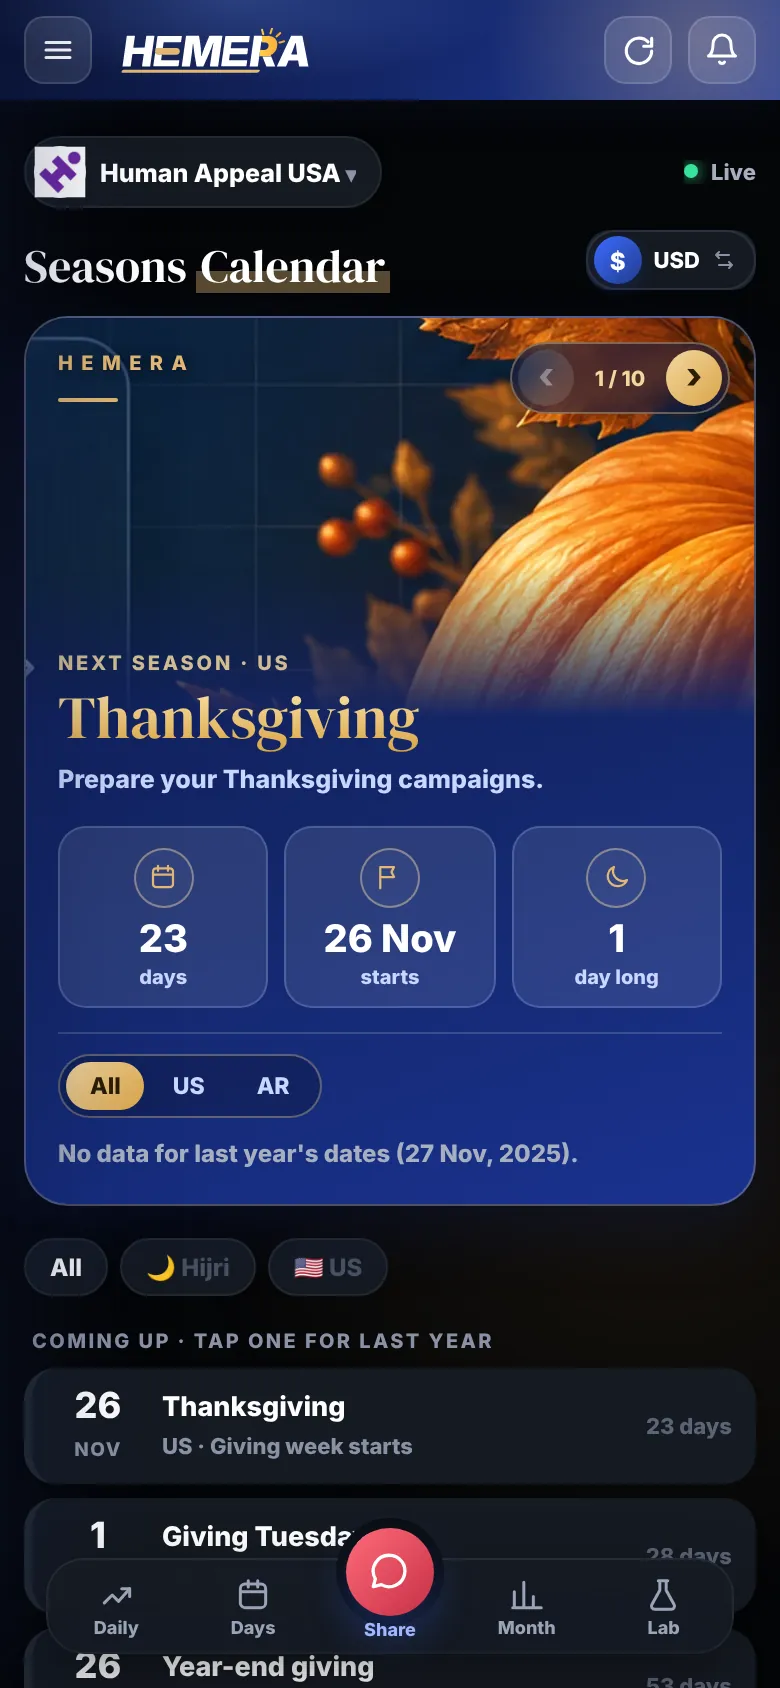
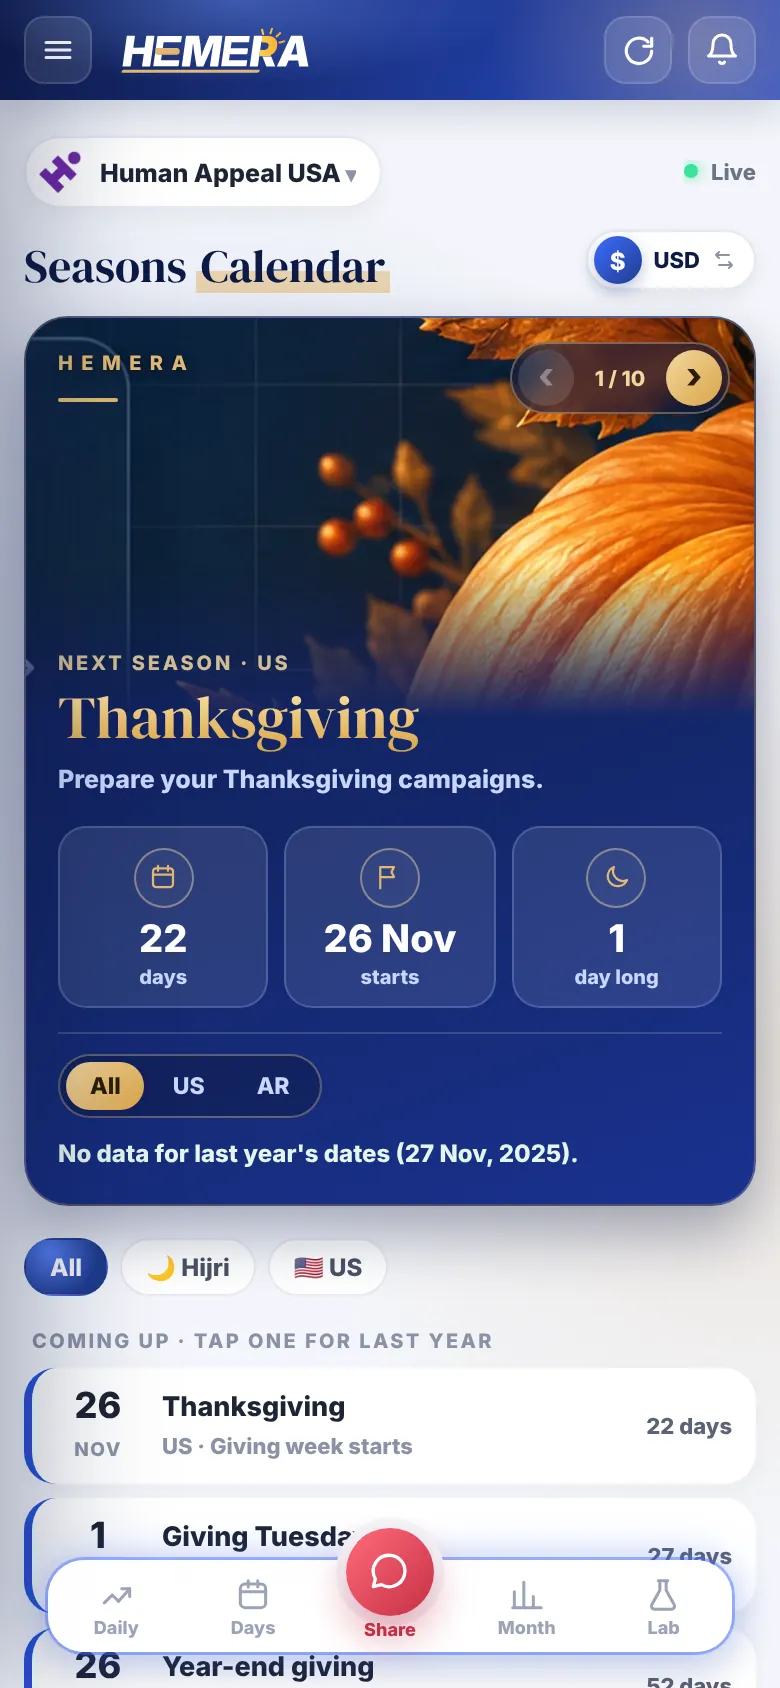
Download page: light screens like the app, Seasons kept in the phones at the top (its own section removed), new campaign type cards in the screens
Claude-Session: https://claude.ai/code/session_01Fhv3nqVBBPmAG7i6xQGF84

diff --git a/get/index.html b/get/index.html
@@ -295,56 +295,12 @@ h2{font-size:36px;letter-spacing:-.03em;line-height:1.08;margin:8px 0 10px;font-
 .fr .bt{position:absolute;width:3px;border-radius:2px;background:linear-gradient(90deg,#5a6aa8,#26326a)}
 .fr .bt.a{left:-3px;top:18%;height:6%}.fr .bt.b{left:-3px;top:27%;height:11%}.fr .bt.c{left:-3px;top:40%;height:11%}.fr .bt.d{right:-3px;top:30%;height:16%}
 .rp.front .fr{box-shadow:inset 0 0 0 1.5px rgba(255,255,255,.22),0 0 0 1px rgba(226,184,116,.18),0 30px 60px rgba(0,0,0,.35)}
-/* v174 seasons section: one phone walks through every season */
-.ssg{display:grid;grid-template-columns:.9fr 1.1fr;gap:48px;align-items:center}
-.ssp-wrap{position:relative;display:flex;justify-content:center;padding:30px 0 10px}
-.ssp-wrap:before{content:"";position:absolute;left:50%;top:48%;width:420px;height:420px;transform:translate(-50%,-50%);border-radius:50%;background:radial-gradient(circle,var(--sg,rgba(226,184,116,.35)),transparent 66%);filter:blur(10px);transition:background 1s ease}
-.ssp{--pw:270px;position:relative;width:var(--pw);aspect-ratio:1/2.164;animation:sspb 7s ease-in-out infinite}
-@keyframes sspb{0%,100%{transform:perspective(1200px) rotateY(-9deg) rotateX(4deg) translateY(0)}50%{transform:perspective(1200px) rotateY(-4deg) rotateX(2deg) translateY(-10px)}}
-.ssp .fr{transform:none;inset:0;position:absolute}
-.ssp .ly{transition:opacity .9s ease,transform 6s ease}
-.ssp .ly img{transform:scale(1.0)}
-.ssp .ly.on img{animation:sspz 4.6s ease-out forwards}
-@keyframes sspz{from{transform:scale(1.035)}to{transform:scale(1)}}
-.ssp-sh{position:absolute;left:50%;bottom:-6px;width:70%;height:34px;transform:translateX(-50%);border-radius:50%;background:radial-gradient(closest-side,rgba(0,0,0,.55),transparent);filter:blur(5px)}
-.ssn{position:absolute;z-index:6;right:calc(50% + 66px);top:12%;width:236px;border-radius:18px;padding:11px 13px;background:rgba(18,30,78,.82);border:1px solid rgba(255,255,255,.16);backdrop-filter:blur(14px);-webkit-backdrop-filter:blur(14px);box-shadow:0 18px 40px rgba(0,0,0,.4);transition:opacity .45s ease,transform .45s ease}
-.ssn.out{opacity:0;transform:translateY(-8px)}
-.ssn .h{display:flex;align-items:center;gap:7px;font-size:11px;color:var(--sub);font-weight:700}
-.ssn .h img{width:18px;height:18px;border-radius:5px;background:#0b1236;padding:2px}
-.ssn .h em{margin-left:auto;font-style:normal;color:var(--mute)}
-.ssn b{display:block;margin-top:6px;font-size:13.5px;line-height:1.25}
-.ssn p{margin:3px 0 0;font-size:12px;line-height:1.4;color:var(--sub);display:-webkit-box;-webkit-line-clamp:2;-webkit-box-orient:vertical;overflow:hidden}
-.ssn .pic{margin-top:8px;border-radius:10px;overflow:hidden;aspect-ratio:2/1;background:#0b1236}
-.ssn .pic img{width:100%;height:100%;object-fit:cover;display:block}
-.ssd{position:absolute;z-index:6;left:calc(50% + 96px);bottom:18%;border-radius:16px;padding:10px 13px;background:linear-gradient(135deg,rgba(226,184,116,.95),#c89434);color:#1c1405;box-shadow:0 16px 34px rgba(0,0,0,.35);text-align:center;transition:opacity .45s ease,transform .45s ease}
-.ssd.out{opacity:0;transform:translateY(8px)}
-.ssd small{display:block;font-size:10px;font-weight:900;letter-spacing:.12em;text-transform:uppercase;opacity:.75}
-.ssd b{display:block;font-size:22px;font-weight:900;line-height:1.1}
-.ssd span{display:block;font-size:11.5px;font-weight:800}
-.sst .kk{display:inline-flex;align-items:center;gap:8px}
-.sst h2 em{font-style:normal;background:linear-gradient(90deg,var(--gold),var(--gold2));-webkit-background-clip:text;background-clip:text;color:transparent}
-.ssl{display:grid;grid-template-columns:1fr 1fr;gap:8px;margin:18px 0 16px}
-.ssl button{position:relative;overflow:hidden;display:flex;align-items:center;gap:10px;text-align:left;font:inherit;color:#fff;border:1px solid var(--line);border-radius:14px;padding:8px 10px;background:rgba(255,255,255,.04);cursor:pointer;transition:background .25s,border-color .25s,transform .15s}
-.ssl button:active{transform:scale(.98)}
-.ssl button i{flex:0 0 34px;width:34px;height:34px;border-radius:10px;background-size:cover;background-position:center;box-shadow:inset 0 0 0 1px rgba(255,255,255,.15)}
-.ssl button b{display:block;font-size:13px;line-height:1.2}
-.ssl button small{display:block;font-size:11px;color:var(--mute);font-weight:700}
-.ssl button.on{border-color:rgba(226,184,116,.6);background:linear-gradient(135deg,rgba(226,184,116,.16),rgba(255,255,255,.03))}
-.ssl button.on small{color:var(--gold)}
-.ssl button em{position:absolute;left:0;bottom:0;height:2px;width:0;background:var(--gold)}
-.ssl button.on em{animation:ltab var(--sd2,4600ms) linear forwards}
-.ssf{display:flex;flex-wrap:wrap;gap:8px}
-.ssf span{display:inline-flex;align-items:center;gap:6px;font-size:12.5px;font-weight:700;color:var(--sub);border:1px solid var(--line);border-radius:99px;padding:6px 11px;background:rgba(255,255,255,.04)}
-.ssf span b{color:#fff}
-@media (max-width:900px){.ssg{grid-template-columns:1fr;gap:26px}.sst{text-align:center}.ssf{justify-content:center}.ssn{left:auto;right:0;width:200px;top:8%}.ssd{right:auto;left:0}}
-@media (min-width:901px) and (max-width:1180px){.ssn{right:auto;left:0}}
-@media (max-width:520px){.ssp{--pw:210px}.ssn{width:170px;right:0;padding:9px 10px}.ssn .pic{display:none}.ssd{left:0;padding:8px 10px}.ssd b{font-size:18px}.ssl{grid-template-columns:1fr}.ssp-wrap:before{width:300px;height:300px}}
 /* v174 laptop: browser bar, dark screen, keyboard deck */
 .lbar{display:flex;align-items:center;gap:6px;height:22px;padding:0 9px;border-radius:6px 6px 0 0;background:#0e173f;border-bottom:1px solid rgba(255,255,255,.06)}
 .lbar i{width:7px;height:7px;border-radius:50%;background:#ff5f57}.lbar i:nth-child(2){background:#febc2e}.lbar i:nth-child(3){background:#28c840}
 .lbar span{flex:1;max-width:52%;margin:0 auto;height:13px;border-radius:5px;background:rgba(255,255,255,.07);color:#8a97c4;font-size:8.5px;font-weight:700;display:flex;align-items:center;justify-content:center;gap:4px}
 .lbar span:before{content:"🔒";font-size:7px}
-.lid .scr{border-radius:0 0 6px 6px;background:#0b1236}
+.lid .scr{border-radius:0 0 6px 6px;background:#eef1f8}
 .base{height:18px}
 .base:after{content:"";position:absolute;left:3%;right:3%;top:2px;height:1px;background:rgba(255,255,255,.18)}
 .dsh{display:inline-block;font-size:.55em;font-weight:700;vertical-align:.32em;margin:0 .22em;opacity:.85}
@@ -407,11 +363,11 @@ h2{font-size:36px;letter-spacing:-.03em;line-height:1.08;margin:8px 0 10px;font-
   <section class="sec">
     <div class="lapgrid">
       <div><div class="lap" id="lap"><div class="lid"><div class="lbar"><i></i><i></i><i></i><span>sekna-app.web.app</span></div><div class="scr" id="lapScr">
-        <img class="on" src="/get/shots/desk-daily.webp?v=14" alt="Daily Performance on a laptop" loading="lazy">
-        <img src="/get/shots/desk-month.webp?v=14" alt="Monthly Progress on a laptop" loading="lazy">
-        <img src="/get/shots/desk-days.webp?v=14" alt="Day by Day on a laptop" loading="lazy">
-        <img src="/get/shots/desk-studio.webp?v=14" alt="Reports Studio on a laptop" loading="lazy">
-        <img src="/get/shots/desk-seasons.webp?v=14" alt="Seasons Calendar on a laptop" loading="lazy">
+        <img class="on" src="/get/shots/desk-daily.webp?v=15" alt="Daily Performance on a laptop" loading="lazy">
+        <img src="/get/shots/desk-month.webp?v=15" alt="Monthly Progress on a laptop" loading="lazy">
+        <img src="/get/shots/desk-days.webp?v=15" alt="Day by Day on a laptop" loading="lazy">
+        <img src="/get/shots/desk-studio.webp?v=15" alt="Reports Studio on a laptop" loading="lazy">
+        <img src="/get/shots/desk-seasons.webp?v=15" alt="Seasons Calendar on a laptop" loading="lazy">
       </div></div><div class="base"></div><div class="lap-sh"></div></div>
       <div class="ltabs" id="lapTabs"><button type="button" class="on">Daily<em></em></button><button type="button">Monthly<em></em></button><button type="button">Day by Day<em></em></button><button type="button">Reports Studio<em></em></button><button type="button">Seasons<em></em></button></div></div>
       <div class="txt">
@@ -423,23 +379,6 @@ h2{font-size:36px;letter-spacing:-.03em;line-height:1.08;margin:8px 0 10px;font-
   </section>
 
 
-  <section class="sec">
-    <div class="ssg">
-      <div class="ssp-wrap" id="sspW">
-        <div class="ssp" id="ssp"><div class="fr"><i class="bt a"></i><i class="bt b"></i><i class="bt c"></i><i class="bt d"></i><div class="scn" id="sspS"></div></div></div>
-        <div class="ssp-sh"></div>
-        <div class="ssn" id="ssN"><div class="h"><img src="/icons/favicon-64.png" alt="">HEMERA<em>now</em></div><b></b><p></p><div class="pic"><img alt="" loading="lazy"></div></div>
-        <div class="ssd" id="ssD"><small></small><b></b><span></span></div>
-      </div>
-      <div class="sst">
-        <span class="kk">🌙 New · Seasons Calendar</span>
-        <h2>Every <em>Hijri season</em>, ready before it starts.</h2>
-        <p class="s">HEMERA follows the Umm al-Qura calendar and the US giving days. Each season has its own picture, a countdown, its Hijri year and last year’s numbers for the same dates, for both accounts.</p>
-        <div class="ssl" id="ssL"></div>
-        <div class="ssf"><span>🔔 Reminder <b>15 days</b> before</span><span>🎉 Greeting card <b>on the day</b></span><span>🖼 Season <b>loading screen</b></span><span>📊 <b>Last year</b> on the same dates</span></div>
-      </div>
-    </div>
-  </section>
   <section class="sec">
     <div class="mpw" id="mpw">
       <div class="mpw-h"><div><span class="kk">The model behind the plan</span><h2>How the Media Plan Works</h2></div>
@@ -512,7 +451,7 @@ var SB='<div class="sb"><span>9:41</span><i><svg viewBox="0 0 18 12"><rect x="0"
 // 3D phones on a turning ring: one screen at a time comes to the front, and its
 // two-screen phones switch between their screens.
 (function(){
-  var S=[[['home-dark'],'Daily Performance','Dark mode','Today against target, in a calm dark theme that is easy on the eyes at night.'],
+  var S=[[['home'],'Daily Performance','Today against target','Today against target: spend, conversions, value and ROAS, each with its own plan line.'],
          [['types','yoy'],'By Campaign Type','Search, PMax, Demand Gen, Video','Each campaign type for the day, ranked by ROAS, with spend against its plan, then the same day last year.'],
          [['results'],'Day by Day','Results against the plan','Every day of the month against the plan, and the month so far against the full month’s plan.'],
          [['years'],'Same Hijri day','This day in every past year','How the same Hijri date did last year and every year before, side by side.'],
@@ -526,7 +465,7 @@ var SB='<div class="sb"><span>9:41</span><i><svg viewBox="0 0 18 12"><rect x="0"
   S.forEach(function(x,i){
     var d=document.createElement('div');d.className='rp';
     d.innerHTML='<div class="ed l"></div><div class="ed r"></div><div class="bk"><img src="/get/logo-white.webp?v=17" alt=""></div><div class="fr"><i class="bt a"></i><i class="bt b"></i><i class="bt c"></i><i class="bt d"></i><div class="scn">'+SB+
-      x[0].map(function(f,k){return '<div class="ly'+(k?'':' on')+'"><img src="/get/shots/'+f+'.webp?v=14" alt="'+x[1]+'"'+(i>1?' loading="lazy"':'')+'></div>'}).join('')+'<i class="hb"></i><i class="gl"></i></div></div>';
+      x[0].map(function(f,k){return '<div class="ly'+(k?'':' on')+'"><img src="/get/shots/'+f+'.webp?v=15" alt="'+x[1]+'"'+(i>1?' loading="lazy"':'')+'></div>'}).join('')+'<i class="hb"></i><i class="gl"></i></div></div>';
     ring.appendChild(d);
     dots.appendChild(document.createElement('i'));
   });
@@ -609,38 +548,6 @@ var SB='<div class="sb"><span>9:41</span><i><svg viewBox="0 0 18 12"><rect x="0"
 })();
 
 
-// Seasons: one phone walks through every season; the list, the countdown chip and
-// the greeting notification follow it. Tap a season to jump to it.
-(function(){
-  var W=document.getElementById('sspW');if(!W)return;
-  var L=[['ramadan','Ramadan','1 Ramadan','Ramadan Mubarak 🌙','May Allah make this a month of blessings, accept our good deeds, and guide our team toward success.','rgba(226,184,116,.4)'],
-    ['last10','Last 10 nights','21 Ramadan','Blessed Last 10 Nights 🤍','May Allah bless us with Laylatul Qadr, accept our prayers, and grant our team success.','rgba(120,150,255,.45)'],
-    ['eidfitr','Eid al-Fitr','1 Shawwal','Eid Mubarak! ✨','May Allah accept our good deeds, bless our team’s efforts, and bring hope to those in need.','rgba(226,184,116,.45)'],
-    ['dhulhijjah','Dhul Hijjah','1 Dhul Hijjah','Blessed Days of Dhul Hijjah 🤍','May Allah bless these sacred days, accept our efforts, and guide our team.','rgba(90,140,255,.45)'],
-    ['arafah','Day of Arafah','9 Dhul Hijjah','Blessed Day of Arafah 🤍','May Allah answer our prayers and make our efforts a source of relief and hope.','rgba(255,170,80,.42)'],
-    ['eidadha','Eid al-Adha','10 Dhul Hijjah','Eid al-Adha Mubarak! ✨','May Allah accept our good deeds and sacrifices, and help us bring the joy of Eid to families in need.','rgba(226,184,116,.45)'],
-    ['ashura','Ashura','10 Muharram','Blessed Day of Ashura 🤍','May Allah accept our fasting, forgive us, and bless our team’s efforts.','rgba(255,190,110,.35)'],
-    ['thanksgiving','Thanksgiving','4th Thursday · Nov','Happy Thanksgiving! 🧡','May our team help bring support and hope to more families in need.','rgba(255,140,60,.42)'],
-    ['givingtuesday','Giving Tuesday','Tuesday after','Happy Giving Tuesday! 💙','Every contribution matters, and every effort brings us closer to our goals.','rgba(226,184,116,.42)'],
-    ['yearend','Year-end giving','26 – 31 Dec','Let’s End the Year with Impact! ✨','May every effort we make leave a lasting legacy of hope, kindness, and generosity.','rgba(255,210,120,.38)']];
-  var scn=document.getElementById('sspS'), list=document.getElementById('ssL'), N=document.getElementById('ssN'), D=document.getElementById('ssD'), cur=-1, t=null, MS=4600;
-  scn.innerHTML=SB+L.map(function(x,i){return '<div class="ly"><img src="/get/shots/ss-'+x[0]+'.webp?v=14" alt="'+x[1]+' in HEMERA"'+(i>1?' loading="lazy"':'')+'></div>'}).join('')+'<i class="hb"></i><i class="gl"></i>';
-  list.innerHTML=L.map(function(x){return '<button type="button"><i style="background-image:url(/icons/seasons/'+x[0]+'.webp?v=5)"></i><span><b>'+x[1]+'</b><small>'+x[2]+'</small></span><em></em></button>'}).join('');
-  document.documentElement.style.setProperty('--sd2',MS+'ms');
-  var ly=scn.querySelectorAll('.ly'), bs=list.children;
-  function show(i){cur=(i+L.length)%L.length;var x=L[cur];
-    for(var k=0;k<L.length;k++){ly[k].classList.toggle('on',k===cur);bs[k].classList.remove('on')}
-    void bs[cur].offsetWidth;bs[cur].classList.add('on');W.style.setProperty('--sg',x[5]);
-    N.classList.add('out');D.classList.add('out');
-    setTimeout(function(){N.querySelector('b').textContent=x[3];N.querySelector('p').textContent=x[4];N.querySelector('.pic img').src='/icons/greet/'+x[0]+'.webp?v=1';
-      D.querySelector('small').textContent=x[0]==='thanksgiving'||x[0]==='givingtuesday'||x[0]==='yearend'?'US season':'Hijri season';D.querySelector('b').textContent=x[1];D.querySelector('span').textContent=x[2];
-      N.classList.remove('out');D.classList.remove('out')},380);
-    clearTimeout(t);t=setTimeout(function(){show(cur+1)},MS)}
-  for(var k=0;k<bs.length;k++)(function(k){bs[k].onclick=function(){show(k)}})(k);
-  var start=function(){show(0)};
-  if(!('IntersectionObserver' in window)){start();return}
-  new IntersectionObserver(function(es,o){es.forEach(function(e){if(e.isIntersecting){start();o.disconnect()}})},{threshold:.25}).observe(W);
-})();
 // How the media plan works: the five steps rise in one after another.
 (function(){var m=document.getElementById('mpw');if(!m)return;if(!('IntersectionObserver' in window)){m.classList.add('in');return}
   new IntersectionObserver(function(es,o){es.forEach(function(e){if(e.isIntersecting){m.classList.add('in');o.disconnect()}})},{threshold:.2}).observe(m)})();
